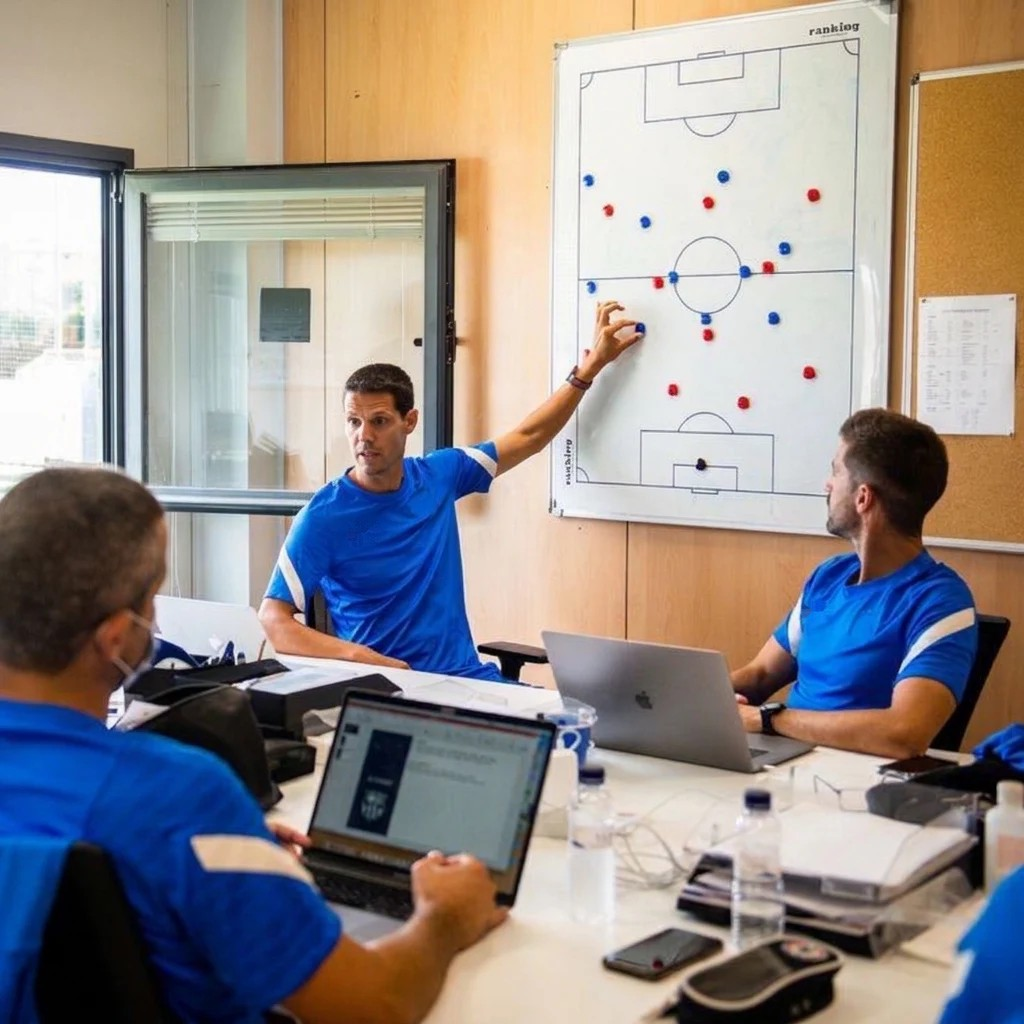
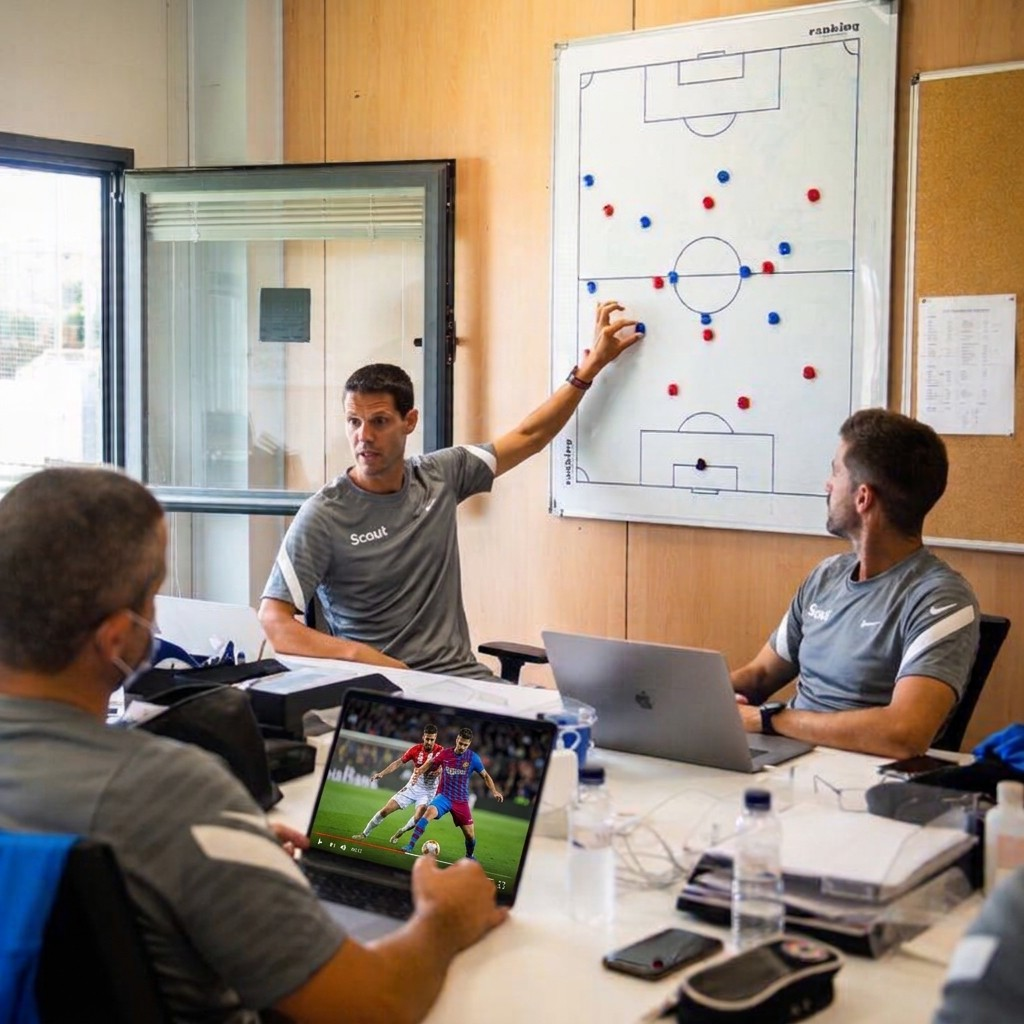
Prompt 5, Bloco A: protótipo v16 (departamento de scouting com a imagem final, camisolas fixas)
Claude-Session: https://claude.ai/code/session_017w7V2qxuGKz4n29x2tGZsu

Changed region(s): [[0.0, 0.4062, 0.5625, 1.0], [0.75, 0.5312, 0.9688, 0.7188], [0.9062, 0.8438, 1.0, 1.0]]

diff --git a/docs/prototipo/futceo-prototipo.html b/docs/prototipo/futceo-prototipo.html
@@ -577,18 +577,9 @@ function filtroCorClube(fid, alfa) {
   if (!document.getElementById(fid)) { const d = document.createElement('div'); d.innerHTML = `<svg width="0" height="0" style="position:absolute" aria-hidden="true"><filter id="${fid}" color-interpolation-filters="sRGB"><feColorMatrix type="matrix" values="0 0 0 0 0  0 0 0 0 0  0 0 0 0 0  ${alfa}" result="mascara"/><feFlood id="${fid}-cor" flood-color="${cor}" result="cor"/><feComposite in="cor" in2="mascara" operator="in" result="tinta"/><feBlend in="tinta" in2="SourceGraphic" mode="color"/></filter></svg>`; document.body.appendChild(d.firstChild); }
   document.getElementById(`${fid}-cor`).setAttribute('flood-color', cor);
 }
-// Departamento de scouting: fotografia do utilizador, sem os logótipos das camisolas; por cima vai uma camada só com as
-// camisolas (sombreado do tecido + máscara, gerada por scripts/prototipo/scouting.py), pintada aqui com a cor do clube.
+// Departamento de scouting: fotografia do utilizador, tal como está (as camisolas são sempre desta cor).
 function salaScouting() {
-  const fid = 'cor-camisolas', cor = CLUBE.cores[0];
-  if (!document.getElementById(fid)) { const d = document.createElement('div'); d.innerHTML = `<svg width="0" height="0" style="position:absolute" aria-hidden="true"><filter id="${fid}" color-interpolation-filters="sRGB">
-    <feColorMatrix in="SourceGraphic" type="matrix" values="1 0 0 0 0  1 0 0 0 0  1 0 0 0 0  0 0 0 0 1" result="sombra"/>
-    <feFlood id="${fid}-cor" flood-color="${cor}" result="cor"/><feComposite in="sombra" in2="cor" operator="arithmetic" k1="1.6" result="tinta"/>
-    <feComposite in="tinta" in2="SourceAlpha" operator="in"/></filter></svg>`; document.body.appendChild(d.firstChild); }
-  document.getElementById(`${fid}-cor`).setAttribute('flood-color', cor);
-  const camada = (src, estilo = '') => `<img src="${src}" alt="" style="position:absolute;inset:0;width:100%;height:100%;object-fit:cover;${estilo}">`;
-  return `<div style="position:relative;width:100%;aspect-ratio:1024/680;overflow:hidden"><div style="position:absolute;left:0;right:0;top:50%;transform:translateY(-50%);aspect-ratio:1/1">
-    ${camada('scouting.jpg')}${camada('scouting-camisolas.png', `filter:url(#${fid})`)}</div></div>`;
+  return `<div style="position:relative;width:100%;aspect-ratio:1024/680;overflow:hidden"><img src="scouting.jpg" alt="Departamento de scouting" style="position:absolute;left:0;top:50%;transform:translateY(-50%);width:100%;height:auto"></div>`;
 }
 function salaConselho() {
   const cor = CLUBE.cores[0];
